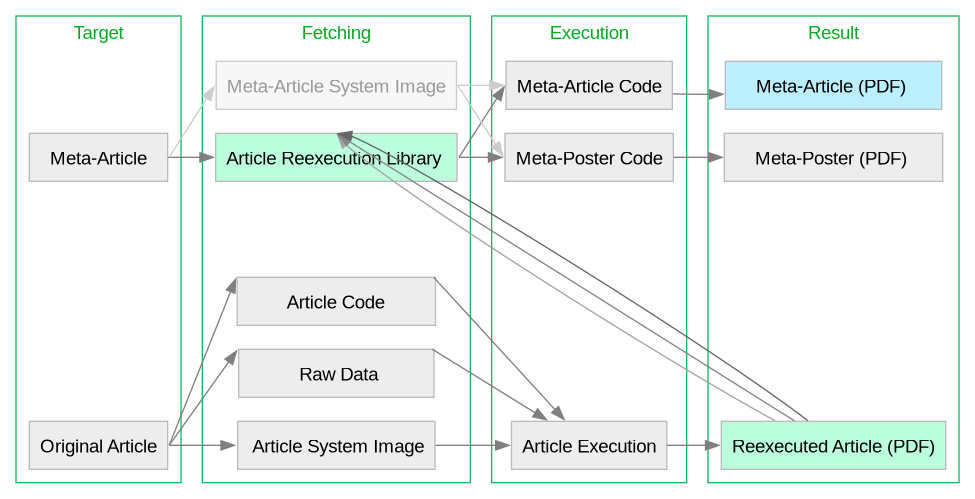
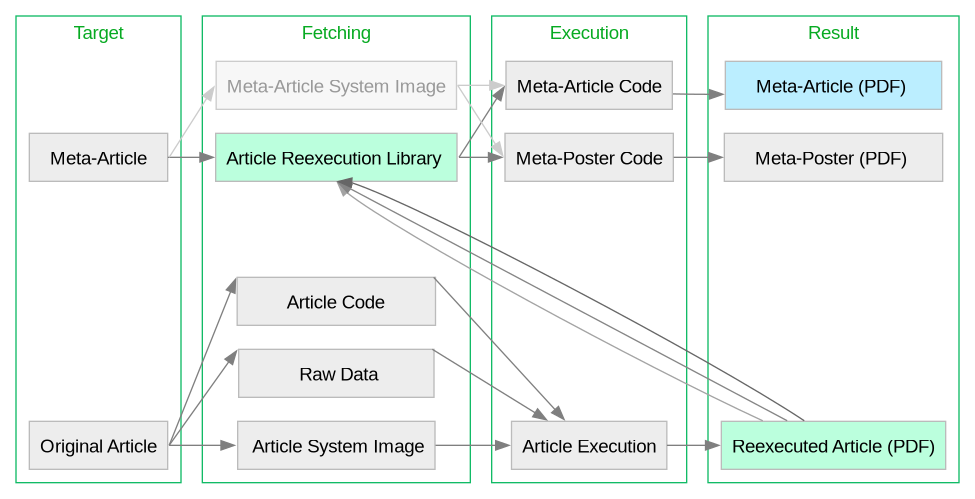
Updated figures and added article link

Changed region(s): [[0.3385, 0.2405, 0.8308, 0.8417]]

diff --git a/README.md b/README.md
@@ -1,4 +1,5 @@
 # OPFVTA Reexecution Study
+[![Article](https://badgen.net/badge/Article%20Manuscript/Article/green)](https://www.frontiersin.org/journals/neuroinformatics/articles/10.3389/fninf.2024.1376022/full)
 [![Manuscript PDF](https://badgen.net/badge/Article%20Manuscript/manual%20record/yellow)](https://articles.chymera.eu/fraaef-frontiers.pdf)
 [![Poster PDF](https://badgen.net/badge/2023%20SfN%20Poster/manual%20record/yellow)](https://articles.chymera.eu/fraaef-poster.pdf)
 
